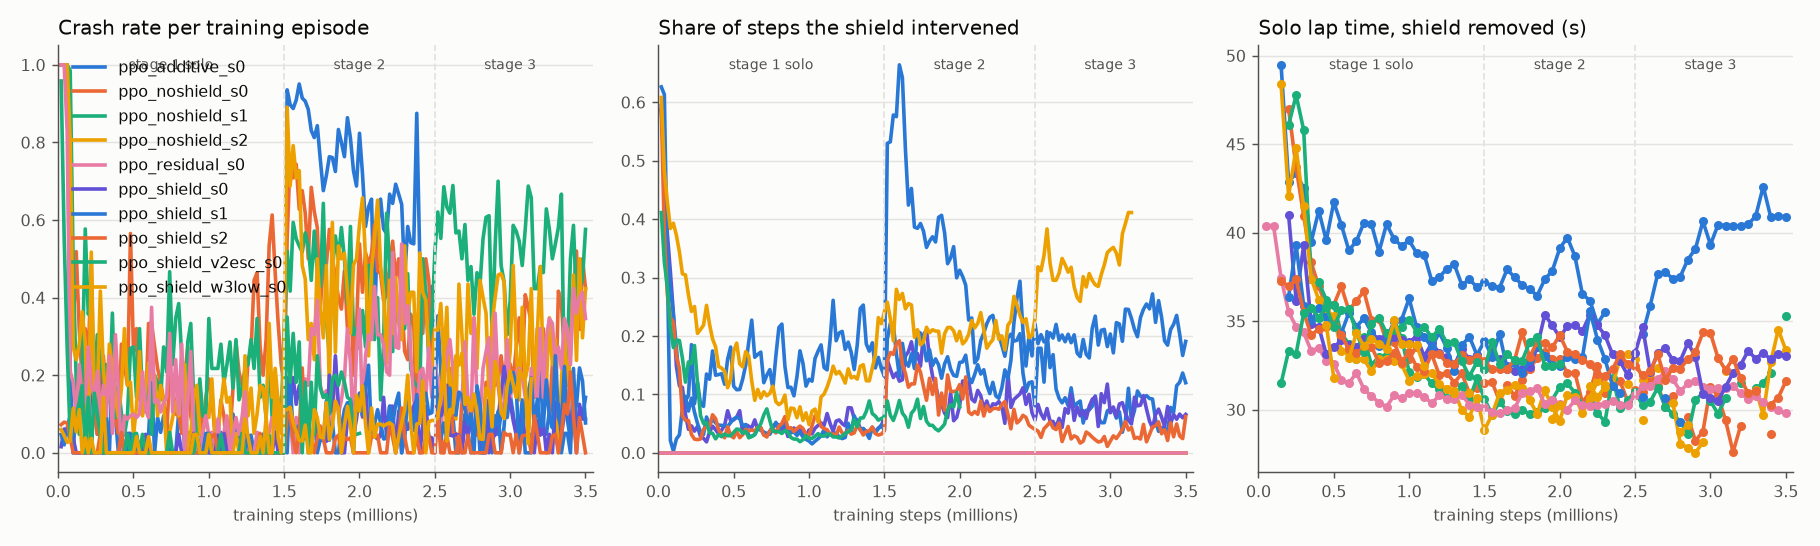
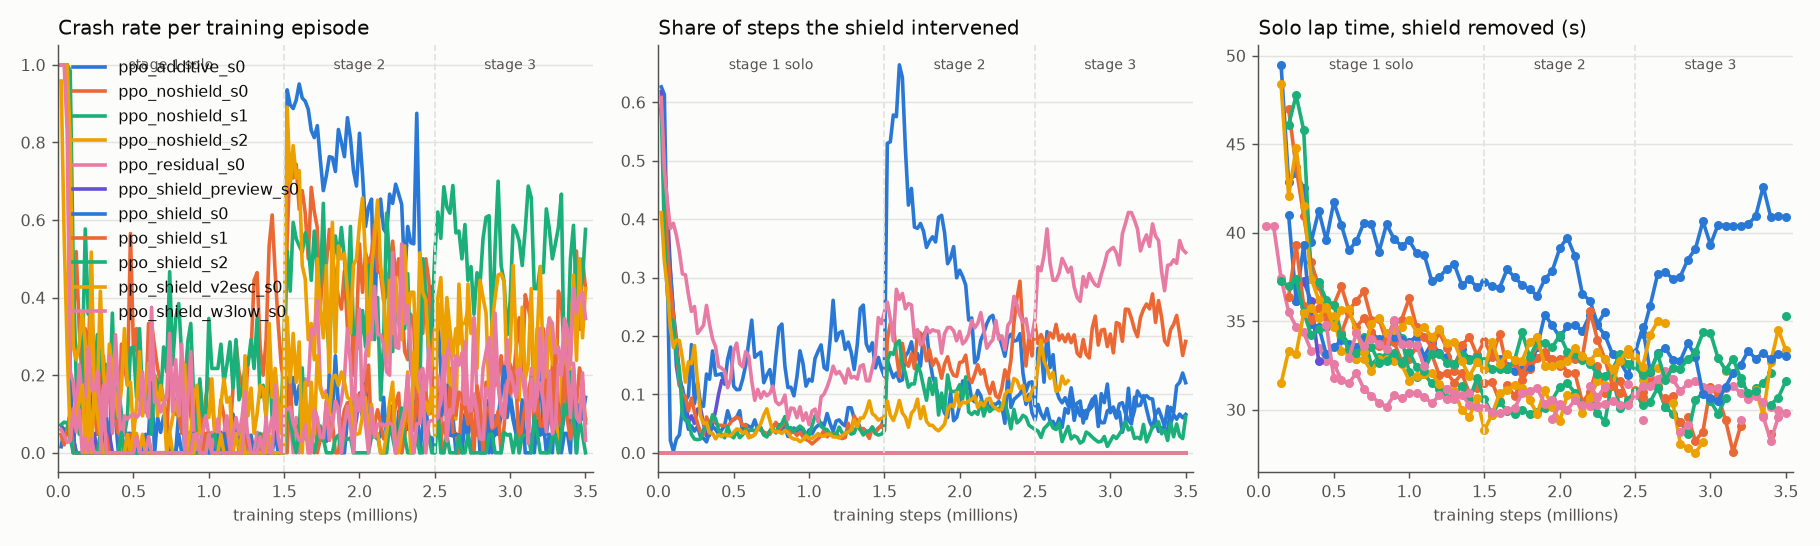
Auto-sync training progress (21:14)

diff --git a/RUNS.md b/RUNS.md
@@ -1,6 +1,6 @@
 # Run registry
 
-Auto-generated by `python -m scripts.update_registry` (2026-11-04 21:12). Each run directory `runs/<run>/` holds `args.json`, `run_info.json` (git commit, command, status), `train_log.csv` (every ~20k steps), `eval_log.csv` (solo laps with/without shield every 50k steps), `model_stage*.zip` + `vecnorm_stage*.pkl` (checkpoint after each curriculum stage). TensorBoard logs (`runs/*/tb`) stay local.
+Auto-generated by `python -m scripts.update_registry` (2026-11-04 21:14). Each run directory `runs/<run>/` holds `args.json`, `run_info.json` (git commit, command, status), `train_log.csv` (every ~20k steps), `eval_log.csv` (solo laps with/without shield every 50k steps), `model_stage*.zip` + `vecnorm_stage*.pkl` (checkpoint after each curriculum stage). TensorBoard logs (`runs/*/tb`) stay local.
 
 ## Training runs
 
@@ -11,11 +11,11 @@ Auto-generated by `python -m scripts.update_registry` (2026-11-04 21:12). Each r
 | `ppo_noshield_s1` | Ablation (no shield), seed 1 | shield=off seed=1 tyre=saturated | `b3af79a` | finished | 3.50M | 26% / 41% / 52% | 200k | 28.60 / 35.28 | 0% | stage1, stage2, stage3 |
 | `ppo_noshield_s2` | Ablation (no shield), seed 2 | shield=off seed=2 tyre=saturated | `65f27b5` | finished | 3.50M | 19% / 44% / 30% | 150k | 27.56 / 33.36 | 0% | stage1, stage2, stage3 |
 | `ppo_residual_s0` | ResRace/RaceMOP-style: PPO residual on top of PID+APF (APF shapes every command) | shield=off residual seed=0 tyre=saturated | `5549760` | finished | 3.50M | 14% / 22% / 22% | 50k | 29.80 / 29.80 | 0% | stage1, stage2, stage3 |
-| `ppo_shield_preview_s0` | Timidity test: ours with 10 centerline curvatures (1-20 m ahead) in the observation | shield=cond_fb_grip seed=0 tyre=saturated | `98cfd56` | running | 0.30M | 3% / - / - | 250k | 36.12 / 37.28 | 6% | - |
+| `ppo_shield_preview_s0` | Timidity test: ours with 10 centerline curvatures (1-20 m ahead) in the observation | shield=cond_fb_grip seed=0 tyre=saturated | `98cfd56` | running | 0.42M | 2% / - / - | 250k | 32.72 / 32.72 | 7% | - |
 | `ppo_shield_s0` | Ours: PPO + action-conditioned APF shield with fallback (grip reach), all stages | shield=cond_fb_grip seed=0 tyre=saturated | `afc94c8 +dirty` | finished | 3.50M | 1% / 9% / 7% | 200k | 30.48 / 33.04 | 6% | stage1, stage2, stage3 |
 | `ppo_shield_s1` | Ours, seed 1 | shield=cond_fb_grip seed=1 tyre=saturated | `0152028` | finished | 3.50M | 1% / 9% / 11% | 200k | 29.12 / 29.12 | 20% | stage1, stage2, stage3 |
 | `ppo_shield_s2` | Ours, seed 2 | shield=cond_fb_grip seed=2 tyre=saturated | `41be473` | finished | 3.50M | 1% / 3% / 3% | 150k | 30.28 / 31.60 | 4% | stage1, stage2, stage3 |
-| `ppo_shield_v2esc_s0` | Ours, improved: shield with deadlock escape, trained on the post-spin-fixed simulator | shield=cond_fb_grip_esc seed=0 tyre=saturated_v2 | `1bb44f8` | running | 2.64M | 4% / 12% / 30% | 150k | 31.48 / 35.00 | 13% | stage1, stage2 |
+| `ppo_shield_v2esc_s0` | Ours, improved: shield with deadlock escape, trained on the post-spin-fixed simulator | shield=cond_fb_grip_esc seed=0 tyre=saturated_v2 | `1bb44f8` | running | 2.72M | 4% / 12% / 31% | 150k | 31.48 / 34.88 | 12% | stage1, stage2 |
 | `ppo_shield_w3low_s0` | Timidity test: ours with intervention penalty w3 = 0.02 (default 0.1) | shield=cond_fb_grip seed=0 tyre=saturated | `8eb284b` | finished | 3.50M | 2% / 7% / 15% | 450k | 28.24 / 29.56 | 34% | stage1, stage2, stage3 |
 
 ### Commands and notes

diff --git a/results/training_efficiency.md b/results/training_efficiency.md
@@ -9,8 +9,9 @@ Solo laps every 50k steps, standing start. 'fast' = under 34 s (best classical s
 | `ppo_noshield_s1` | off | 3500k | 200k | 600k | 1080 | 2769 (5517) | 28.60 |
 | `ppo_noshield_s2` | off | 3500k | 150k | 550k | 969 | 2295 (5267) | 27.56 |
 | `ppo_residual_s0` | off residual | 3500k | 50k | 350k | 259 | 995 (4141) | 29.80 |
+| `ppo_shield_preview_s0` | cond_fb_grip | 420k | 250k | 400k | 15 | 18 (569) | 32.72 |
 | `ppo_shield_s0` | cond_fb_grip | 3500k | 200k | 450k | 8 | 234 (4158) | 30.48 |
 | `ppo_shield_s1` | cond_fb_grip | 3500k | 200k | 800k | 9 | 313 (4572) | 29.12 |
 | `ppo_shield_s2` | cond_fb_grip | 3500k | 150k | 600k | 11 | 96 (3965) | 30.28 |
-| `ppo_shield_v2esc_s0` | cond_fb_grip_esc tyre=saturated_v2 | 2000k | 150k | 150k | 76 | 187 (2122) | 31.48 |
-| `ppo_shield_w3low_s0` | cond_fb_grip | 3160k | 450k | 500k | 24 | 315 (4369) | 28.72 |
+| `ppo_shield_v2esc_s0` | cond_fb_grip_esc tyre=saturated_v2 | 2720k | 150k | 150k | 76 | 334 (2938) | 31.48 |
+| `ppo_shield_w3low_s0` | cond_fb_grip | 3500k | 450k | 500k | 24 | 405 (4981) | 28.24 |
